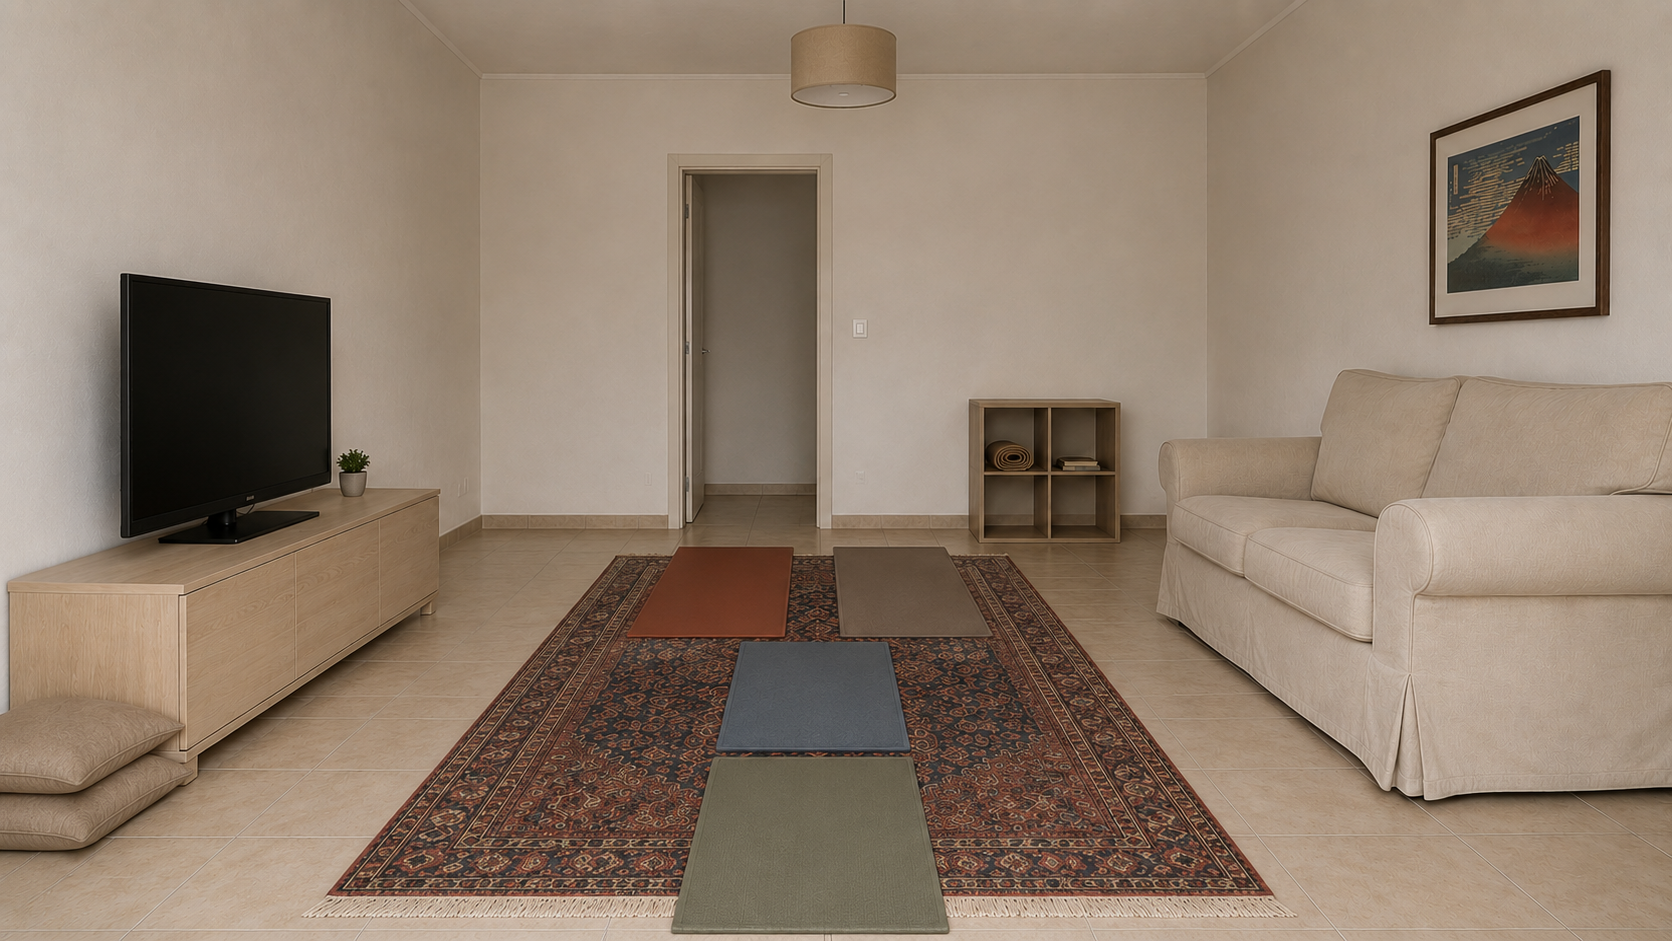
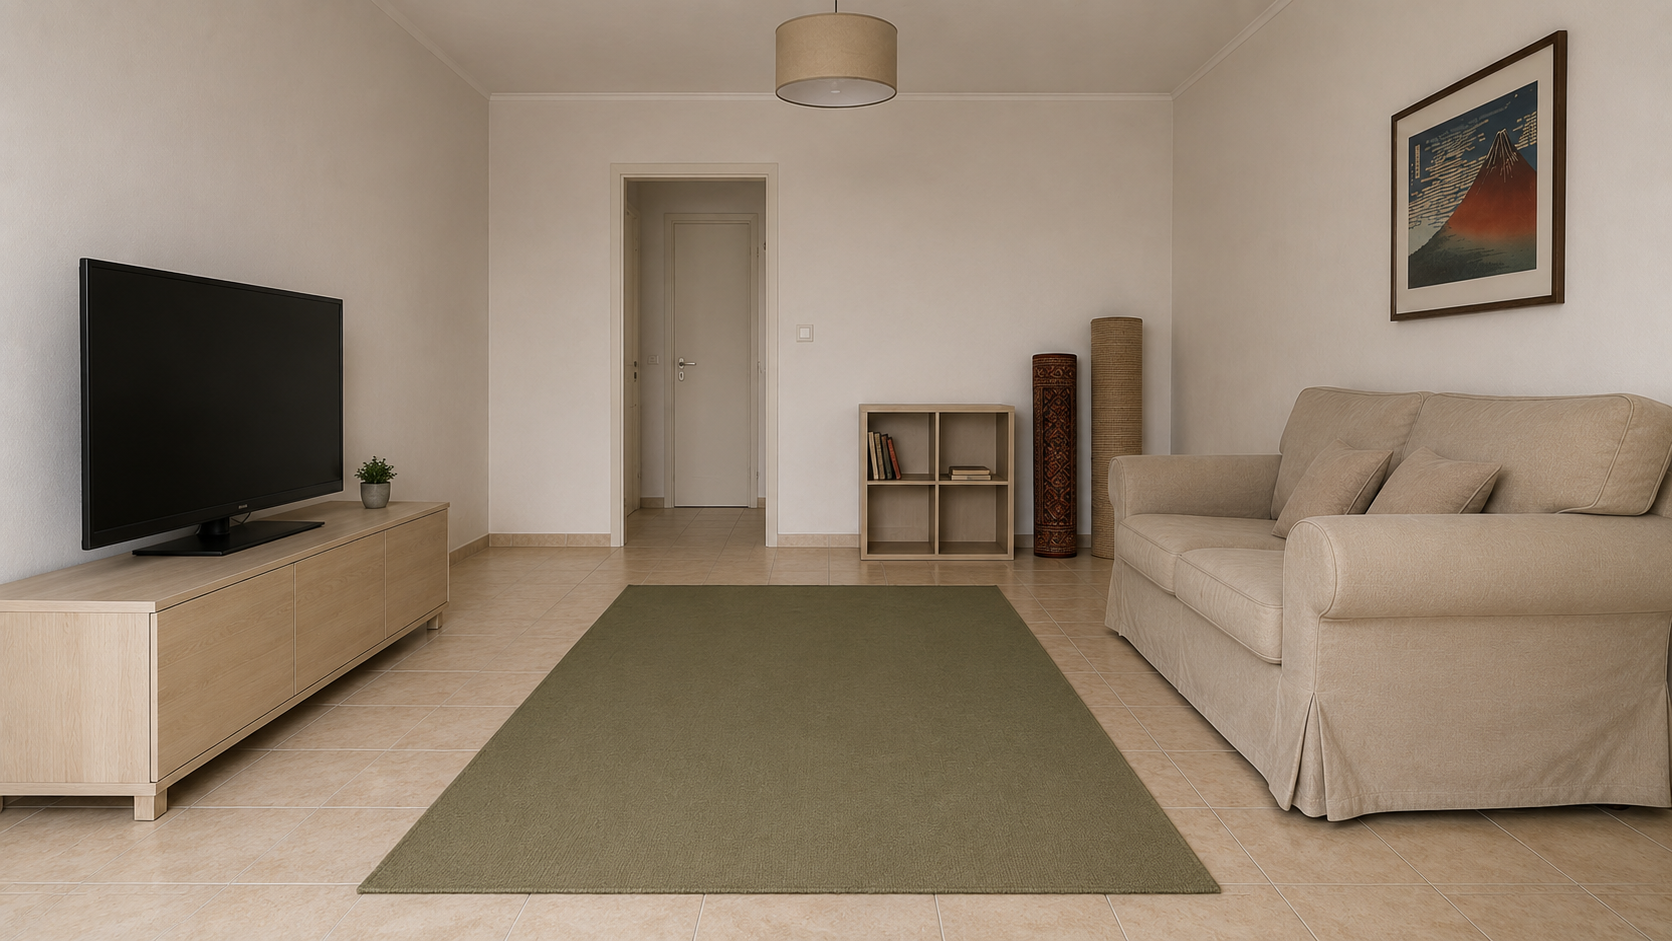
GATE B SEQ1-SC02: retract build-asset-first doctrine, reboot to method brainstorm
Six-render failed loop on the 4-subject full-body SH02-START forced a strategy
reboot. Evidence (renders on disk): a plate-baked carpet + a "Herman unrolls a
carpet" keyframe beat produced a DOUBLE CARPET that "bare floor" tokens could not
remove, and 4-figure blocking swapped positions.

Governing lesson recorded: IMAGE-REFERENCE DOMINATES TEXT — an attached plate is
the floor of truth; text adds subjects/poses + re-lights but cannot delete/override
a baked-in object. Three variance drivers logged as the next-session brainstorm
agenda: subject-count (0-1 reliable, >=3-4 collapses), full-body WS = max failure
surface, text bloat = secondary lever.

- Env E02 Cell R2 rewritten: 4-mat plate -> single plain green prayer carpet
  + 2 stored rug rolls + sofa cushions. New subuh-lit variant plate added.
- SEQ1-SC02.md: 4-mat/colour-tag/canvas doctrine purged; SH02-START re-authored;
  SH02-END + SH03 banner-flagged RE-AUTHOR PENDING.
- Prayer-surface trilemma SOLVED at the plate level (do not reopen); the open
  problem is the METHOD of placing figures on it.
- scope/context/lessons/MEMORY updated with the retraction + reboot.
- Next: brainstorm the text+image->image method + author prompt-rules-text-image-to-image.md.

diff --git a/explainer-video-2/10-gateB-keyframes/SEQ1-SC02.md b/explainer-video-2/10-gateB-keyframes/SEQ1-SC02.md
@@ -13,6 +13,8 @@ aliases: [ev2-gateB-seq1-sc02]
 
 > **🔒 TRIAD ATTACHMENT MANDATORY (Erik mandate 2026-06-23):** SETIAP frame (START & END) WAJIB melampirkan + menyebut di prompt KETIGA kategori: **(1) KARAKTER** (plat wajah/figur tiap orang dalam frame), **(2) LINGKUNGAN** (plat env E02), **(3) START/END-REFERENCE** (render anchor). Render anchor saja TIDAK cukup untuk objek yang diberi aksi (sajadah, saklar, monitor) → tanpa plat lingkungan model halusinasi permukaan/objek. Tak ada pengecualian.
 
+> **⚠️ PIVOT PERMUKAAN SHOLAT (2026-06-25, Erik) — doktrin 4-mat DIBATALKAN.** Empat sajadah colour-tagged + canvas-pixel + build-asset-first TERBANTAH: mat di bawah makmum BERDIRI rontok di render, dan mat di atas PERSISK bentrok ukuran dengan PERSISK kecil di `sc02_sh01_end.png` (anomali kontinuitas). **Permukaan baru = SATU karpet sholat hijau polos `tanpa corak`** digelar di lantai tengah; PERSISK + tikar flat-weave **digulung mepet tembok depan** (rol kanan flat-weave tan tinggi-tebal, rol kiri persisk pendek); 2 bantal di sofa. Plate `E02_ruangkeluarga_reverse_prayer.png` sudah di-regenerate + LOCKED (2026-06-25). **Beat baru SH02-START = Herman membentang sisa gulungan karpet** (floor-action = jangkar render terbukti). Token colour-tag/canvas-x-y/membujur 4-mat = HAPUS di mana pun muncul di bawah. SH02-END + SH03 = RE-AUTHOR menyusul (END anchor ke render START).
+
 > **STRUKTUR 3-SHOT (revisi 2026-06-24, Erik):** SH03 (takbir→ruku) disederhanakan jadi **berdiri bersedekap (qiyam) ditahan, START→END beda angle saja** — gerak pose multi-karakter sinkron (ruku/sujud 4 orang) risiko-tinggi i2v warp. **SH04 (sujud) DIHAPUS.** END SH03 = push-in di sumbu reverse yang sama (high-angle `prayer_high` dibatalkan). **Reblock 2026-06-24:** seluruh sholat (SH02+SH03) pindah ke plate `E02_ruangkeluarga_reverse_prayer.png`, sholat menghadap jendela/kamera (qibla=jendela), plate karakter `front`. SC02 = **3 shot / 6 keyframe**. Konsekuensi hilir: `03-scene-detail.md` hapus SH04 + shot-count film 57→56 (sync terpisah).
 
 ## Aturan keras yang dibawa
@@ -139,10 +141,10 @@ aliases: [ev2-gateB-seq1-sc02]
 ---
 
 ## SEQ1-SC02-SH02 — MS Herman gelar sajadah → saf terbentuk · segmen 5 dtk
-**Attach START:** `sc02_sh01_end.png` (acuan cahaya warm-lamplit + kontinuitas grade SAJA, kamera baru) + `E02_ruangkeluarga_reverse_prayer.png` (LINGKUNGAN plate-sholat reverse + **4 mat warna ter-bake 1-1-2**: sage-green depan=Herman · dusty-blue tengah=Andi · terracotta belakang-kiri=Lisa · warm-taupe belakang-kanan=Ratna; sofa camera-right, TV camera-left, pintu+KALLAX latar, karpet PERSISK tengah) + `H_herman_front_full.png` (Herman, imam, di mat sage-green depan, menghadap kamera) + `R_ratna_hijab_profileA_medium.png` (Ratna mukena, **PROFIL hadap camera-LEFT**, di mat warm-taupe) + `L_lisa_profileB_full.png` (Lisa mukena, **PROFIL hadap camera-RIGHT**, di mat terracotta) + `A_andi_profileB_full.png` (Andi koko+peci, **PROFIL hadap camera-RIGHT ke Ratna**, di mat dusty-blue tengah) — momen persiapan: tiap orang **di mat warnanya**, ketiga makmum **berkumpul saling berhadapan, mengobrol santai, lengan tidak bersedekap**; mat dari plat (token mat dibuang dari teks). **END:** anchor `sc02_sh02_start.png` + `E02_ruangkeluarga_reverse_prayer.png` + keempat plat front (Herman `front_full`, Ratna `hijab_front_medium`, Lisa `front_full`, Andi `front_full`), saf terbentuk menghadap kamera (i2v START→END = badan berputar ke depan menata saf). **Bersih Saat Sakral: NOL grafis; layar mati di latar.**
+**Attach START:** `E02_ruangkeluarga_reverse_prayer_subuh.png` (LINGKUNGAN+CAHAYA tunggal — plate sholat reverse versi subuh: ruang + karpet sholat hijau polos tergelar + PERSISK/flat-weave digulung mepet tembok + 2 bantal di sofa + cahaya subuh lampu-hangat) + `H_herman_front_full.png` (Herman, imam, menunduk membentang karpet) + `R_ratna_hijab_profileA_medium.png` (Ratna mukena, **PROFIL hadap camera-LEFT**) + `L_lisa_profileB_full.png` (Lisa mukena, **PROFIL hadap camera-RIGHT**) + `A_andi_profileB_full.png` (Andi koko+peci, **PROFIL hadap camera-RIGHT ke Ratna**) — beat persiapan: **Herman membentang sisa gulungan karpet sholat** (tangan di atas karpet = floor-action penjangkar render); tiga makmum **berkumpul berdiri di lantai ubin menunggu, mengobrol santai, lengan tidak bersedekap** (belum di atas karpet — karpet masih dibuka). Karpet dari plat + di-anchor aksi Herman; nol token colour-tag/canvas. **END + SH03 = RE-AUTHOR menyusul** (END anchor ke render START yang belum ada). **Bersih Saat Sakral: NOL grafis; layar mati di latar.**
 
-### SH02-START (prompt utuh — pola baru: 4 mat dari plat, tiap orang di mat warnanya, makmum mengobrol)
-> **Pola terbaru (2026-06-24):** sajadah TIDAK dibuat oleh teks — ikut dari plat `E02_ruangkeluarga_reverse_prayer.png` (4 mat polos warna-beda, 1-1-2 saf). Tiap orang dipaku ke **mat warnanya** + koordinat kanvas x/y. Compaction (dedup) + colour-anchor + canvas-pixel grammar. Mat-creation token DIBUANG.
+### SH02-START (prompt utuh — karpet sholat tunggal, Herman membentang sisa gulungan)
+> **Pendekatan 2026-06-25:** permukaan = SATU karpet hijau polos dari plat `E02_ruangkeluarga_reverse_prayer_subuh.png` (versi subuh lampu-hangat, env+cahaya tunggal). Karpet dijangkar oleh AKSI Herman membentang (tangan di atasnya), bukan colour-tag/canvas. Makmum berdiri di lantai menunggu (belum di karpet). Nol token mat-warna/koordinat. (Lolos audit MEK: A1/A2/B2 PASS; warm di `lighting` = lampu praktis bermotivasi konsisten SH01-END; MATA render-dependent PENDING.)
 ```json
 {
   "mood": "quiet pre-dawn devotion gathering, the family turning toward prayer, Roma-style observational tenderness",
@@ -152,10 +154,10 @@ aliases: [ev2-gateB-seq1-sc02]
   "location": "indoor",
   "time_of_day": "pre-dawn before sunrise, interior lamp on",
   "atmosphere": "quiet lived-in domestic calm, warm lamplit devotion before fajr",
-  "lighting_reference": "attached frame sc02_sh01_end.png, lighting and continuity reference only, same warm interior lamplit key, same dark blue pre-dawn window",
-  "environment_reference": "attached plate E02_ruangkeluarga_reverse_prayer.png, the prayer-master reverse view, the PERSISK rug with four coloured prayer mats already laid in a one-one-two formation, sage-green front, dusty-blue middle, terracotta back-left, warm-taupe back-right, EKTORP sofa, framed Red Fuji, on the camera-right wall, BESTÅ TV bench on the camera-left wall, open doorway, KALLAX shelf, on the far wall ahead, window-desk wall behind the camera, faithful room match",
+  "environment_reference": "attached reference plate E02_ruangkeluarga_reverse_prayer_subuh.png, same living room reverse view in warm pre-dawn lamplight, the EKTORP sofa beneath the framed Hokusai Red Fuji print on the camera-right wall, two cushions resting on the sofa, the BESTA TV bench, the dark off flat-screen television, on the camera-left wall, the two stored rug rolls flush against the far front wall, the camera-right tan flat-weave roll tall and thick, the camera-left oriental roll shorter and slimmer, the open doorway, the KALLAX cube shelf, on the far front wall ahead, the window-desk wall behind the camera, the central floor bare ceramic tile cleared for prayer, the everyday rugs already rolled away against the far wall, faithful room match, faithful warm pre-dawn lamplight match",
+  "prayer_surface": "one single plain solid muted-green prayer carpet, smooth even unpatterned wool surface, uniform solid green throughout, clean plain edges, about 200cm wide, a long runner whose long axis runs in depth along the imam-to-makmum line, the near end at the imam's knees in the foreground already laid flat, unrolling away from the camera deeper into the room toward where the makmum stand, the far end still a cylindrical roll pushed forward ahead of the hands, the carpet lying directly on the bare ceramic-tiled floor as the only floor covering, the bare tile visible where the roll has yet to reach, a single contiguous textile long enough to seat the whole prayer line",
   "character_identity_husband": {
-    "identity_reference": "attached plate H_herman_front_full.png, same identical face, same identity, faithful frontal match, Herman the imam kneeling on the sage-green front mat nearest the camera, facing the camera toward the window-qibla",
+    "identity_reference": "attached plate H_herman_front_full.png, same identical face, same identity, faithful facial match, Herman kneeling on one knee over the carpet, his face angled down toward the floor",
     "role": "Jakarta middle-class export-import office supervisor, modest mature man, dignified",
     "ethnicity": "modern Jakartan features, Javanese urban descent",
     "age": "man 46 years old",
@@ -169,12 +171,12 @@ aliases: [ev2-gateB-seq1-sc02]
     "footwear": "barefoot"
   },
   "character_identity_wife": {
-    "identity_reference": "attached plate R_ratna_hijab_profileA_medium.png, same identical face, same identity, head covered, faithful profile match, Ratna in profile facing camera-left, standing on the warm-taupe back-right mat turned toward the children",
+    "identity_reference": "attached plate R_ratna_hijab_profileA_medium.png, same identical face, same identity, head covered, faithful profile match, Ratna in profile facing camera-left, standing on the green prayer carpet behind the imam, turned toward the children",
     "role": "modest mature Muslim woman, makmum, dignified maternal warmth",
     "ethnicity": "modern Jakartan features, Javanese urban descent",
     "age": "woman 41 years old",
     "facial_features": "luminous healthy complexion, soft natural skin texture, gentle full cheeks",
-    "body_features": "soft maternal build, 158cm frame, full adult standing height, natural upright head-to-body proportions, tall composed stature"
+    "body_features": "soft maternal build, 158cm frame, full adult standing height, natural upright head-to-body proportions"
   },
   "character_style_wife": {
     "makeup": "bare mature skin, matte finish zero shine",
@@ -183,12 +185,12 @@ aliases: [ev2-gateB-seq1-sc02]
     "footwear": "barefoot"
   },
   "character_identity_daughter": {
-    "identity_reference": "attached plate L_lisa_profileB_full.png, same identical face, same identity, faithful profile match, Lisa in profile facing camera-right, standing on the terracotta back-left mat turned toward her mother Ratna",
+    "identity_reference": "attached plate L_lisa_profileB_full.png, same identical face, same identity, faithful profile match, Lisa in profile facing camera-right, standing on the green prayer carpet behind the imam, turned toward her mother Ratna",
     "role": "young woman university student, daughter, makmum",
     "ethnicity": "modern Jakartan features, Javanese urban descent",
     "age": "young woman 19 years old",
     "facial_features": "youthful smooth complexion, soft natural skin texture, calm eyes",
-    "body_features": "young slender build, natural 34C bustline, 162cm frame, full adult standing height, natural upright head-to-body proportions, tall composed stature"
+    "body_features": "young slender build, natural 34C bustline, 162cm frame, full adult standing height, natural upright head-to-body proportions"
   },
   "character_style_daughter": {
     "makeup": "natural youthful skin, soft matte finish zero shine",
@@ -197,7 +199,7 @@ aliases: [ev2-gateB-seq1-sc02]
     "footwear": "barefoot"
   },
   "character_identity_son": {
-    "identity_reference": "attached plate A_andi_profileB_full.png, same identical face, same identity, faithful profile match, Andi the young son in profile facing camera-right toward his mother Ratna, standing on the dusty-blue middle mat",
+    "identity_reference": "attached plate A_andi_profileB_full.png, same identical face, same identity, faithful profile match, Andi the young son in profile facing camera-right toward his mother Ratna, standing on the green prayer carpet behind the imam",
     "role": "young boy, son, makmum",
     "ethnicity": "modern Jakartan features, Javanese urban descent",
     "age": "boy 10 years old",
@@ -211,13 +213,13 @@ aliases: [ev2-gateB-seq1-sc02]
     "footwear": "barefoot"
   },
   "subject_state": "dynamic",
-  "action": "Herman kneeling on the sage-green front mat, smoothing it, facing the camera toward the window-qibla; behind him the mother and two children gathered each on their own coloured prayer mat before prayer, chatting softly, smiling, arms hanging loose and open at their sides, turned inward toward one another in warm conversation",
-  "pose": "Herman foreground on the sage-green front mat at x 960 y 920, kneeling, facing the camera; Andi standing on the dusty-blue middle mat at x 960 y 780 facing camera-right toward his mother; Lisa standing on the terracotta mat at x 800 y 640 facing camera-right toward Ratna; Ratna standing on the warm-taupe mat at x 1120 y 640 facing camera-left toward the children; the three makmum turned inward in a relaxed chat, the one-one-two formation reading in depth toward the lens, the EKTORP sofa beyond x 1500 at camera-right and the BESTÅ TV bench before x 420 at camera-left kept outside the figures band, 16:9 canvas at 1920x1080 reference",
-  "expression": "Herman calm focused on the mat, mother and two children warm with light happy smiles mid soft chat, an easy joyful family moment before prayer",
-  "framing": "MS to WS across the prayer rug, Herman on the sage-green front mat in the foreground, the three on their coloured mats behind in one-one-two depth, the open doorway on the far wall behind the family",
-  "angle": "eye-level, Herman facing the camera in the foreground, the makmum on their mats behind turned toward one another, slightly off-axis, anti-cliché",
-  "camera": "35mm prime spherical, focus on Herman at the front mat, soft background falloff",
-  "lighting": "warm interior ceiling lamp key, soft warm practical fill, faint dark blue pre-dawn spill from the window-wall behind the camera, the flat-screen television at camera-left dark and switched off, zero graphics, even matte rendering",
+  "action": "Herman kneeling on one knee at the front of the prayer line nearest the camera, both hands pushing the rolled prayer carpet away from himself, unrolling it flat across the floor away from the camera deeper into the room toward where the family will stand, the near end at his knees already laid flat, the roll moving forward ahead of his hands, his face angled down to the carpet; a little deeper in the room the mother and two children gathering onto the unrolling green carpet behind the imam, waiting before prayer, light easy smiles, arms loose at their sides",
+  "pose": "Herman at the front nearest the camera on one knee, hands on the carpet unrolling it deeper into the room away from the lens along the imam-to-makmum depth axis; the three makmum a step deeper behind him moving onto the area the carpet now covers, Andi, Lisa, Ratna gathering on the green carpet behind the imam, the EKTORP sofa at camera-right, the BESTA TV bench at camera-left, kept outside the figures band",
+  "expression": "Herman calm focused on laying the carpet, mother and two children warm with light happy smiles mid soft chat, an easy joyful family moment before prayer",
+  "framing": "MS to WS across the open floor, Herman unrolling the prayer carpet in the foreground, the three gathered behind on the bare floor, the open doorway on the far front wall behind the family",
+  "angle": "eye-level, Herman bent over the carpet in the foreground, slightly off-axis, anti-cliché",
+  "camera": "35mm prime spherical, focus on Herman at the front, the carpet under his hands, soft background falloff",
+  "lighting": "warm interior ceiling lamp key, soft warm practical fill, faint dark blue pre-dawn spill from the window-wall behind the camera, the flat-screen television at camera-left dark off, zero graphics, even matte rendering",
   "aspect_ratio": "16:9",
   "director": "Alfonso Cuarón", "directing_style": "observational domestic naturalism, unhurried intimate register",
   "lighting_director": "Emmanuel Lubezki", "lighting_style": "naturalistic available-light feel, soft motivated sources, gentle falloff",
@@ -229,6 +231,7 @@ aliases: [ev2-gateB-seq1-sc02]
 ```
 
 ### SH02-END (ANCHOR ke render START — keluarga berkumpul membentuk saf di belakang imam)
+> **⚠️ RE-AUTHOR PENDING (2026-06-25):** JSON di bawah masih versi 4-mat colour-tag. END anchor ke `sc02_sh02_start.png` yang belum di-generate ulang → ditulis ulang ke pendekatan karpet-tunggal SETELAH render SH02-START baru diterima. Jangan generate dari JSON ini.
 **Attach:** `sc02_sh02_start.png` (komposisi/cahaya) + `E02_ruangkeluarga_reverse_prayer.png` (LINGKUNGAN plate-sholat reverse) + `H_herman_front_full.png` + `R_ratna_hijab_front_medium.png` + `L_lisa_front_full.png` + `A_andi_front_full.png` (KARAKTER keempat, menghadap kamera). Beda dari START = saf terbentuk: Herman imam berdiri di depan (terdekat kamera) menghadap kamera, tiga makmum (Andi · Ratna · Lisa) satu baris bahu-membahu di belakangnya (lebih dalam di ruang), semua menghadap kamera. **Lisa mukena, Andi koko+sarung+peci anak.**
 ```json
 {
@@ -320,6 +323,7 @@ aliases: [ev2-gateB-seq1-sc02]
 ---
 
 ## SEQ1-SC02-SH03 — WS qiyam bersedekap (ditahan, START→END beda angle) · segmen 5 dtk
+> **⚠️ RE-AUTHOR PENDING (2026-06-25):** kedua JSON SH03 di bawah masih versi 4-mat colour-tag + plate `_reverse_prayer` lama. Permukaan kini = karpet sholat hijau polos tunggal; SH03 ditulis ulang SETELAH SH02 pair (START+END) terkunci. Jangan generate dari JSON ini.
 **Penyederhanaan (Erik 2026-06-24):** pose **berdiri bersedekap (qiyam, tangan kanan di atas kiri di dada/perut) DITAHAN identik** dari START ke END; yang berubah **HANYA kamera** — START eye-level menghadap kamera, END **push-in sedikit lebih rapat di sumbu reverse yang sama** (high-angle dibatalkan: plate `prayer_high` = sumbu lama, tak cocok reverse). Tidak ada gerak pose multi-karakter (ruku/sujud dibuang). Gerak i2v = push-in halus atas subjek statis, risiko warp minimal.
 
 **Attach START:** `sc02_sh02_end.png` (acuan komposisi saf + cahaya) + `E02_ruangkeluarga_reverse_prayer.png` (LINGKUNGAN plate-sholat reverse) + keempat plat (Herman `front_full`, Ratna `hijab_front_medium`, Lisa `front_full`, Andi `front_full`). **Attach END:** `sc02_sh03_start.png` (anchor identitas+pose, pose ditahan) + `E02_ruangkeluarga_reverse_prayer.png` (LINGKUNGAN, sumbu sama, framing sedikit lebih rapat) + keempat plat.
@@ -506,10 +510,10 @@ aliases: [ev2-gateB-seq1-sc02]
 |---|---|---|---|
 | SH01 WS desktop (beat iklan) | START | `scene-images/sc02/sc02_sh01_start.png` | ✅ ACCEPTED (2026-06-24) |
 | | END | `scene-images/sc02/sc02_sh01_end.png` | ✅ ACCEPTED (2026-06-24, refleks menengok ruang baru-menyala; verifikasi adversarial digeser ke shot berikutnya per Erik) |
-| SH02 MS sajadah→saf | START | `scene-images/sc02/sc02_sh02_start.png` | ✅ ACCEPTED (2026-06-24, POLA BARU: mat-dari-plat + colour-anchor + canvas x/y + compaction; one-shot, Erik "jenius") |
-| | END | `scene-images/sc02/sc02_sh02_end.png` | ⏳ |
-| SH03 WS qiyam (ditahan, beda angle) | START | `scene-images/sc02/sc02_sh03_start.png` | ⏳ |
-| | END | `scene-images/sc02/sc02_sh03_end.png` | ⏳ |
+| SH02 MS Herman membentang karpet | START | `scene-images/sc02/sc02_sh02_start.png` | ⏳ RE-AUTHORED (2026-06-25, karpet-tunggal + Herman-membentang; doktrin 4-mat dibatalkan; prompt siap, tunggu render baru) |
+| | END | `scene-images/sc02/sc02_sh02_end.png` | ⏳ RE-AUTHOR PENDING (anchor render SH02-START baru) |
+| SH03 WS qiyam (ditahan, beda angle) | START | `scene-images/sc02/sc02_sh03_start.png` | ⏳ RE-AUTHOR PENDING (karpet-tunggal) |
+| | END | `scene-images/sc02/sc02_sh03_end.png` | ⏳ RE-AUTHOR PENDING |
 
 Storage: `scene-images/sc02/`. Generate urut SH01-START → SH01-END → SH02-START → SH02-END → SH03-START → SH03-END; review tiap render (wajah/ruang/saf vs plat) sebelum lanjut; rename yang accepted → `sc02_sh<NN>_<start|end>.png`; nol `Content*.png` leftover.
 

diff --git a/scope.md b/scope.md
@@ -6,7 +6,18 @@ created: 2026-06-08
 updated: 2026-06-18
 ---
 
-# Scope — AKTIF (2026-06-24 · GATE B keyframe SEQ1-SC02 — POLA PROMPT BARU divalidasi, SH02-START accepted)
+# Scope — AKTIF (2026-06-25 · GATE B SEQ1-SC02 — STRATEGY REBOOT: brainstorm metode text+image→image)
+
+## STATUS TERBARU (2026-06-25 · sesi reboot metode)
+- **AKTIF:** bukan lagi tambal-token SH02 — **brainstorm METODE prompting+produksi text+image→image** di sesi BARU, lalu tulis doc baru `prompt-rules-text-image-to-image.md` (vault root) yang MENDUKUNG `prompt-rules-image-generation.md`. Paket: `handoff/HANDOFF-2026-06-25-EV2-PROMPTING-METHOD-BRAINSTORM.md` + `.txt`.
+- **DOKTRIN "POLA BARU build-asset-first" (2026-06-24) DIRETRAKSI** — terbantah sesi ini. Bukti: karpet ter-bake di plate `_subuh` + aksi "Herman membentang" → DOUBLE CARPET (`26629cfc-…png`, `Content 1672x941 (2).png`); posisi 4 figur tertukar. **Pelajaran inti: image-reference MENDOMINASI teks — objek yang ter-bake di plate TAK bisa di-token-out.**
+- **Tiga hipotesis Erik (agenda brainstorm, tervalidasi vs bukti):** (1) teks berlebih meredundansi image-ref (parsial); (2) >2 subjek → akurasi anjlok (KUAT); (3) full-body WS rapuh → pakai medium/close, full-body hanya saat aman + untuk scene-developing.
+- **TERKUNCI (jangan dibuka ulang):** trilemma permukaan-sholat SOLVED di level PLATE — `E02_ruangkeluarga_reverse_prayer.png` (satu karpet hijau polos + 2 rol mepet tembok + bantal di sofa) + `E02_ruangkeluarga_reverse_prayer_subuh.png` (versi subuh). SH01 pair accepted+committed. SH02/SH03 = OPEN (re-derive di bawah metode baru).
+- **OUT OF SCOPE:** generate gambar (tugas user); buka ulang trilemma permukaan; tambal-token multi-subjek full-body turn-by-turn; commit hanya bila user minta.
+
+---
+
+# Scope — Riwayat: AKTIF (2026-06-24 · GATE B keyframe SEQ1-SC02 — POLA PROMPT BARU [DIRETRAKSI 2026-06-25], SH02-START accepted)
 
 ## STATUS TERBARU (2026-06-24 · sesi pola-baru)
 - **AKTIF:** GATE B keyframe SEQ1-SC02. **3/6 terkunci** (SH01 pair + SH02-START). **NEXT = SH02-END + SH03 dengan POLA BARU**, lalu review render user. YA NEVER generate.

diff --git a/context.md b/context.md
@@ -8,7 +8,15 @@ updated: 2026-06-10
 
 # Context — Sesi Aktif
 
-## State AKHIR Sesi (2026-06-24 · GATE B SEQ1-SC02 — POLA PROMPT BARU divalidasi end-to-end, SH02-START accepted) — TERBARU
+## State AKHIR Sesi (2026-06-25 · GATE B SEQ1-SC02 — STRATEGY REBOOT, brainstorm metode text+image→image) — TERBARU
+**Fokus:** sesi ini gagal mengonvergensi SH02-START (4-subjek full-body) lewat ≥6 render; Erik menghentikan tambal-token dan memutuskan **reboot strategi**: brainstorm metode prompting+produksi text+image→image di sesi BARU + tulis doc baru `prompt-rules-text-image-to-image.md` (mendukung, bukan mengganti, `prompt-rules-image-generation.md`).
+**DOKTRIN BUILD-ASSET-FIRST 2026-06-24 DIRETRAKSI** (terbantah): plate `_subuh` membawa karpet ter-bake; aksi "Herman membentang karpet" menambah karpet KEDUA → **DOUBLE CARPET** (`scene-images/sc02/26629cfc-…png`, `Content 1672x941 (2).png`); posisi Andi/Lisa vs Ratna tertukar. **Pelajaran kunci: image-reference MENDOMINASI teks — tak bisa men-token-out objek yang ter-bake di plate; plate = lantai kebenaran, teks hanya menambah/pose di dalamnya.**
+**Korpus kegagalan (Priority 1, render di disk):** 4-mat kecil di bawah makmum berdiri rontok; double-carpet (reference dominasi); blocking 4-figur tertukar; figur berdiri menekan objek lantai. **Yang ANDAL:** plate nol-subjek (selalu benar), SH01 satu-subjek (sekali jadi), relight-via-composition-anchor.
+**Tiga hipotesis Erik (agenda brainstorm):** (1) teks berlebih meredundansi image-ref (parsial); (2) >2 subjek → akurasi anjlok (KUAT); (3) full-body WS rapuh → medium/close default, full-body hanya saat aman + scene-developing.
+**State git:** dirty, nothing committed. `M` E02-ruangkeluarga.md (Cell R2 → single-carpet), SEQ1-SC02.md (doktrin 4-mat dipurge, SH02-START re-author, SH02-END/SH03 banner RE-AUTHOR PENDING), `E02_ruangkeluarga_reverse_prayer.png` (single green carpet). `??` `_reverse_prayer_subuh.png` (accepted, locked), Content*.png + 26629cfc (rejected). `D` `sc02_sh02_start.png` (old 4-mat dihapus). SH01 pair locked+committed.
+**TERKUNCI:** trilemma SOLVED di level plate (single green carpet); SH02/SH03 OPEN (re-derive di bawah metode baru). **NEXT (sesi baru):** brainstorm metode → tulis `prompt-rules-text-image-to-image.md` → validasi di SH02-START. Handoff: `handoff/HANDOFF-2026-06-25-EV2-PROMPTING-METHOD-BRAINSTORM.md` + `.txt`.
+
+## State AKHIR Sesi (2026-06-24 · GATE B SEQ1-SC02 — POLA PROMPT BARU [DIRETRAKSI 2026-06-25], SH02-START accepted)
 **Fokus:** lanjut GATE B SEQ1-SC02; sesi ini melahirkan + memvalidasi **POLA PROMPTING BARU** (SH02-START accepted ONE-SHOT, Erik "jenius"). **3/6 keyframe terkunci** (`scene-images/sc02/sc02_sh0{1_start,1_end,2_start}.png`).
 **POLA BARU (WAJIB, semua di `prompt-rules` changelog 2026-06-24):** (1) **build-asset-first** — objek/arrangement persisten yang tak bisa di-teks (sajadah) di-BAKE ke set-plate turunan master, dikunci, lalu keyframe mereferensi (bukan menciptakan via teks); (2) **colour-tagging objek** — warna muted distinct = anchor penempatan + kepemilikan; (3) **canvas-pixel grammar DUA sumbu** — center-x + center-y px di 1920×1080 (y-depth: dekat kamera = y besar); (4) **long-axis membujur/melintang** eksplisit + dimensi cm; (5) **compaction-by-dedup** — satu fakta satu field, telegraphic, pertahankan token per-figur, front-load subjek + tail crew, TANPA simbol pemrograman (`->`/`=>` ditolak; GPT-Image autoregresif caption-trained).
 **Aset:** `E02_ruangkeluarga_reverse_prayer.png` = plat sholat 4-mat warna 1-1-2 (Cell R2 di env-sheet; ownership sage-green=Herman/dusty-blue=Andi/terracotta=Lisa/warm-taupe=Ratna); `E02_ruangkeluarga_reverse.png` = base no-mats (dipulihkan dari `115609e` setelah keliru ditimpa — pelajaran: nama-file distinct per varian, jangan cp-overwrite aset ter-commit). SH02-START doc `SEQ1-SC02.md` ditulis ulang ke pola baru + manifest ✅.

diff --git a/explainer-video-2/09-environment-sheet/E02-ruangkeluarga.md b/explainer-video-2/09-environment-sheet/E02-ruangkeluarga.md
@@ -286,10 +286,11 @@ Serves SEQ1-SC02 prayer (SH02 + SH03) — a NEW camera axis, the reverse of the 
 
 ---
 
-### Cell R2 — REVERSE prayer plate WITH four colour-tagged mats → `E02_ruangkeluarga_reverse_prayer.png` · ✅ LOCKED (2026-06-24)
-Derived from **Cell R** (same room, same reverse camera, upload `E02_ruangkeluarga_master.png` as reference) with four plain colour-tagged prayer mats baked onto the PERSISK rug in a 1-1-2 saf, placed by canvas coordinates + membujur (long-axis-toward-camera) orientation. Serves SEQ1-SC02 prayer (SH02 + SH03); keyframes reference the mats by colour instead of conjuring them in text. **Identical to Cell R except: (a) add the `prayer_mats` object below into `subject_anchor.supporting_objects`; (b) `primary_subject` & `shot.composition` mention "four plain prayer mats, each a different muted colour, 1-1-2 formation receding in depth"; (c) filename `…_reverse_prayer.png`.** Mat ownership for keyframe placement: **sage-green front = Herman (imam) · dusty-blue middle = Andi · terracotta back-left = Lisa · warm-taupe back-right = Ratna.** (Validated 2026-06-24, render (3), Erik — count + 1-1-2 depth + membujur all correct; basis for `prompt-rules` changelog: colour-tagging, canvas y-depth, membujur, build-asset-first.)
+### Cell R2 — REVERSE prayer plate, single plain prayer carpet + two stored rug rolls → `E02_ruangkeluarga_reverse_prayer.png` · ✅ LOCKED (2026-06-25, REPLACES the disproven 4-mat plate)
+**Pivot 2026-06-25 (Erik):** the four colour-tagged mats DISPROVEN — standing-makmum mats dropped in render, and a mat baked onto the PERSISK rug mismatched the small PERSISK size in `sc02_sh01_end.png` (continuity anomaly). **New surface = ONE single plain solid muted-green prayer carpet** laid flat over the central tiled floor (no pattern, `tanpa corak`), distinct from the PERSISK. The PERSISK + the flat-weave floor mat are **rolled up and stored against the far front wall** (the camera-right roll = the wider tan flat-weave mat, a tall thick cylinder; the camera-left roll = the narrower PERSISK, shorter/slimmer) — they are out of use, so the everyday rugs are accounted for without crowding the prayer floor. The two EKTORP cushions sit on the sofa seat. Derived from **Cell R** (same reverse camera, upload `E02_ruangkeluarga_master.png`). Serves SEQ1-SC02 prayer (SH02 + SH03). Render-reliability rationale: one large contiguous floor object renders dependably (proven by the PERSISK behaviour); the carpet under standing makmum is still verified per keyframe render. **Identical to Cell R except: (a) replace the `rug` object with the `prayer_carpet` + `stored_rug_rolls` objects below; (b) cushions moved onto the sofa; (c) `primary_subject` & `shot.composition` name the green carpet + the two wall rolls; (d) filename `…_reverse_prayer.png`.** (Validated 2026-06-25, render `Content 1672x941 (1)` → renamed, Erik — green carpet + rolls + sofa cushions all correct.)
 ```json
-"prayer_mats": "four separate plain single-person prayer mats on the PERSISK rug, each a different muted solid colour, placed by camera-frame canvas coordinates on the 16:9 frame at 1920x1080 reference, a family prayer formation receding in depth, EVERY mat a tall narrow rectangle oriented lengthwise toward the camera, its long axis running front-to-back from the foreground toward the doorway and its short axis left-to-right, each mat clearly longer front-to-back than it is wide side-to-side, about 70cm wide by 115cm long with the 115cm length pointing toward the camera, all four mats oriented the same lengthwise way, the imam's muted sage-green mat centred at x 960 y 920 in the near foreground lowest in frame, the muted dusty-blue lone middle-row mat centred at x 960 y 780 in its own row, the back row two mats highest and furthest a muted terracotta mat centred at x 800 y 640 toward camera-left and a muted warm-taupe mat centred at x 1120 y 640 toward camera-right, the blue middle mat clearly between the green front mat and the back pair, all four mats within the central horizontal band from x 680 to x 1240 of 1920 with at least 430px to each side edge, the EKTORP sofa beyond x 1500 at camera-right and the BESTÅ TV bench before x 420 at camera-left both kept outside the mats band, each mat a plain solid-colour rectangle with a smooth unpatterned surface, spaced apart with rug showing between them"
+"prayer_carpet": "one single plain solid muted-green prayer carpet, smooth even unpatterned wool surface, uniform solid green throughout, clean plain edges, about 200cm wide, laid flat across the central tiled floor, a single contiguous textile",
+"stored_rug_rolls": "two everyday floor rugs rolled into tight upright cylinders, stood flush against the far front wall ahead beside the KALLAX shelf, the camera-right roll a wide tan flat-weave striped-pattern mat rolled into a tall thick cylinder standing higher, the camera-left roll a narrower PERSISK oriental-pattern rug rolled into a shorter slimmer cylinder, both set aside out of use"
 ```
 
 ---
@@ -302,7 +303,7 @@ Derived from **Cell R** (same room, same reverse camera, upload `E02_ruangkeluar
 | F | floor-seating | `E02_ruangkeluarga_floorseat.png` | ✅ LOCKED v2 (2026-06-23, tight-MS seated-height) |
 | S | screen / desktop insert | `E02_ruangkeluarga_screen.png` | ✅ LOCKED v2 (2026-06-23, keyboard+mouse verified) |
 | R | REVERSE establishing (prayer master, no mats) | `E02_ruangkeluarga_reverse.png` | ✅ LOCKED (2026-06-24, kamera membelakangi jendela → sholat menghadap kamera; sofa→camera-right, TV→camera-left, pintu+KALLAX latar, karpet PERSISK tengah — geometri terbalik terverifikasi) |
-| R2 | REVERSE prayer plate + 4 colour-tagged mats | `E02_ruangkeluarga_reverse_prayer.png` | ✅ LOCKED (2026-06-24, 4 mat polos warna-beda, 1-1-2 saf via canvas x/y, membujur; sage-green=Herman/dusty-blue=Andi/terracotta=Lisa/warm-taupe=Ratna) |
+| R2 | REVERSE prayer plate, single plain green carpet + 2 stored rug rolls | `E02_ruangkeluarga_reverse_prayer.png` | ✅ LOCKED (2026-06-25, REPLACES disproven 4-mat plate: 1 karpet sholat hijau polos `tanpa corak` digelar tengah; PERSISK + tikar flat-weave digulung mepet tembok depan (rol kanan flat-weave tan tinggi-tebal, rol kiri persisk pendek); 2 bantal di sofa) |
 
 Storage: `environment-images/E02_ruangkeluarga/` (+ `_rejected/`). Naming: `E02_ruangkeluarga_<angle>.png`.
 Generate M first (no reference-image). Then P / F / S via the `shot`-only-rewrite method: upload `E02_ruangkeluarga_master.png` as reference + paste §1 verbatim + the cell's `shot` block. Verify each prop against the master image before locking.

diff --git a/lessons.md b/lessons.md
@@ -340,6 +340,10 @@ updated: 2026-06-18
 ## [2026-06-23] 🔒 TRIAD ATTACHMENT MANDATORY — karakter + lingkungan + start/end-ref tiap frame (Erik mandate) — MANDAT
 - **Aturan:** SETIAP frame (START & END) WAJIB attach + sebut di prompt: (1) KARAKTER (plat tiap orang di frame), (2) LINGKUNGAN (plat env), (3) START/END-REFERENCE (plat arah / render anchor). **Meski render START/END sudah menampilkan lingkungan, plat lingkungan TETAP wajib** — anchor render saja tak cukup untuk objek yang diberi aksi (bukti: SH03-END "taruh HP di nakas" tanpa plat nakas → halusinasi permukaan). Tak ada pengecualian, termasuk END yang anchor ke render.
 - **Mengapa:** Erik mandate 2026-06-23 (SH03-END); kanonik di `prompt-rules` + CLAUDE.md + memory + banner `SEQ1-SC01.md`. Generalisasi "subjek wajib direferensikan".
+
+## [2026-06-25] ⛔ RETRAKSI doktrin build-asset-first + image-reference MENDOMINASI teks — NEGATIF (reboot strategi)
+- **Pelajaran:** doktrin "POLA BARU build-asset-first" (2026-06-24) DIRETRAKSI di level keyframe. Bake objek ke plate berhasil untuk plate NOL-subjek, tapi GAGAL begitu 4 figur berdiri + aksi ditaruh di atasnya. Tiga kegagalan, semua render Priority 1 (`scene-images/sc02/26629cfc-…png`, `Content 1672x941 (2).png`): (a) **DOUBLE CARPET** — plate `_subuh` sudah punya karpet ter-bake tergelar; beat "Herman membentang karpet" menambah karpet KEDUA; token "bare floor" TIDAK menghapus karpet ter-bake. (b) **blocking 4-subjek runtuh** (Andi/Lisa tertukar vs Ratna). (c) figur berdiri tetap menekan objek lantai (rontok mat 4-warna lama). **Pelajaran yang memerintah: IMAGE-REFERENCE MENDOMINASI TEKS** — plate = lantai kebenaran; teks bisa MENAMBAH subjek/pose + relight, tapi tak bisa MENGHAPUS/menimpa objek yang ter-bake di plate. Korolari: JANGAN lampirkan plate yang sudah berisi objek yang aksi keyframe-nya dimaksudkan "menciptakan" objek itu (beat membentang melawan plate karpet-tergelar → double).
+- **Mengapa:** terbantah end-to-end sesi 2026-06-25 (≥6 render SH02-START gagal konvergen). Tiga pendorong varians (agenda brainstorm sesi baru): (1) teks berlebih = lever sekunder, bukan penyebab; (2) **subject-count = pendorong varians dominan** (0–1 subjek andal sekali-jadi, ≥3–4 runtuh); (3) **full-body WS N-orang = permukaan-gagal maksimal** → default medium/close, full-body hanya saat aman + scene-developing. Keputusan: stop tambal-token multi-subjek full-body; brainstorm metode + tulis doc baru `prompt-rules-text-image-to-image.md` (mendukung `prompt-rules-image-generation.md`). Trilemma permukaan SOLVED di level plate (single green carpet, accepted) — jangan dibuka ulang. Paket `handoff/HANDOFF-2026-06-25-EV2-PROMPTING-METHOD-BRAINSTORM.md` + `.txt`. Kanonik penuh akan masuk `prompt-rules-text-image-to-image.md` saat sesi baru. See [[semesta-image-prompt-craft]].
 - **🔴 ENFORCEMENT (meta-lesson, Erik marah 2026-06-23 — "nyatat terus tapi tolol terus"):** mencatat aturan ≠ menerapkannya. Bukti kegagalan: TRIAD ditulis, lalu DILANGGAR di frame berikutnya (SH03 menyebut `character_identity_wife` tapi plat Ratna dibuang). **WAJIB pre-emit cross-check tiap frame SEBELUM nyatakan siap:** untuk SETIAP nama orang/objek/lingkungan yang muncul di prompt JSON → pastikan ada plat ter-attach yang bersesuaian (grep `identity_reference`/`environment_reference` vs daftar attach). Plat orang berbaring = full/medium (bukan closeup). Kalau ada nama tanpa plat → BELUM siap. Jalankan audit ini sendiri, jangan tunggu user yang menemukan.
 
 ## [2026-06-23] PILOT SEQ1-SC01 — teknik prompting tervalidasi (SH01+SH02 pair complete) — POSITIF

diff --git a/MEMORY.md b/MEMORY.md
@@ -5,6 +5,8 @@ Erik communicates in informal Bahasa Indonesia; all vault documents are written 
 
 Current state
 
+TERBARU (2026-06-25, STRATEGY REBOOT) — GATE B keyframe production for explainer-video-2/. Locked: SEQ1-SC01 (8/8) + SEQ1-SC02 SH01 pair (committed). SC02 SH02/SH03 BLOCKED after a 6-render failed loop on a 4-subject full-body shot. **The 2026-06-24 "build-asset-first / POLA BARU" doctrine is RETRACTED** — it held for zero-subject plates but failed once standing figures + an action were placed on a baked-object plate. **Governing lesson now: IMAGE-REFERENCE DOMINATES TEXT** — an attached plate is the floor of truth; text can ADD subjects/poses + re-light but cannot DELETE/override what is baked into the plate (proof: DOUBLE-CARPET render `26629cfc`, where a "Herman unrolls a carpet" beat drew a 2nd carpet over the plate's baked one; "bare floor" tokens did not remove it). Three structural variance drivers (next-session brainstorm agenda): (1) text bloat = secondary lever; (2) subject-count is dominant — 0–1 subject reliable one-shot, ≥3–4 collapses (blocking swaps, floor objects drop); (3) full-body WS of N people = max failure surface → default medium/close, full-body only when safe + for scene-developing. DECISION (Erik): stop token-firefighting; brainstorm the text+image→image method in a NEW session + author vault-root doc `prompt-rules-text-image-to-image.md` that SUPPORTS `prompt-rules-image-generation.md`. Prayer-surface trilemma SOLVED at PLATE level (single plain green prayer carpet plate `E02_ruangkeluarga_reverse_prayer.png` + subuh variant, accepted) — do NOT reopen; the open problem is the METHOD of placing figures on it. Package: handoff/HANDOFF-2026-06-25-EV2-PROMPTING-METHOD-BRAINSTORM.md + .txt. Detail in lessons.md (2026-06-25 retraction entry) + auto-memory semesta-image-prompt-craft.md.
+
 TERBARU (2026-06-21, end of GATE B / GATE 0-ENV session) — Active work = the 5-minute explainer video "Satu Keluarga, Satu Hari Penuh" in explainer-video-2/, cast of 4 (Herman 50, Ratna 45, Lisa 20, Andi 10). GATE A (scene detail) COMPLETE (6 seq / 19 scene / 57 shot / ≈312s). **GATE 0 (character plates) CLOSED — 53 plates approved**: Herman 9, Ratna 12, Lisa 9, Andi 9, figurans 14. **GATE B (per-shot keyframe prompts) standard LOCKED** (00-WORKLOG GATE B entry): WARM color_grade token = "Roger Deakins palette, lifted blacks medium gray, neutral shadows, clean whites, Kodak 2383 emulation, slightly warmer midtones" (warmth from color_grade ONLY, garments desaturated); video crew = Cuarón / Lubezki / Caballero; per-shot start/end pairing (end-N = start-N+1); new field character_identity.identity_reference binds the plate file to the ChatGPT attachment; validated on SEQ1-SC01-SH03 over 6 iterations (HP rear-to-camera, off-axis anti-AI-cliché angle, expression as a sub-object for a beat like just-woke, subject-on-the-bed spatial fix). **ADDENDUM A1 (canonical 00-WORKLOG) — ALL graphics removed from AI generation**: app UI / ad cards / charts / super / motion graphics done in After Effects by a human animator; Lapis 5 (on_screen_graphic/graphic_proximity/ui_overlay) DROPPED from every keyframe prompt; devices appear but screens render off/neutral, comp-aware; cross-linked in prompt-rules + 05 + 03 + lessons + auto-memory semesta-no-ai-graphics-addendum.md. **GATE 0-ENV (environment reference plates) IN PROGRESS** — method `09-environment-sheet/00-README-ENV.md` + `environment-images/` created; 14 unique environments E01–E14 (6 home rooms share one architecture anchor + 8 outside); per-env scoped-angle (not 360), empty-room, neutral grade, ADDENDUM A1; THREE mandatory anchors per env prompt: owner social class in `scene` + INTERNATIONAL brand register (IKEA etc. as "<brand>-style register" not logos; model localizes via Jakarta tokens) + INTERNATIONAL interior-designer pair (production_designer Eugenio Caballero + interior_designer Ilse Crawford) + NAMED public-domain artwork for cross-angle consistency (home default: Hokusai "The Great Wave off Kanagawa" + "Fine Wind Clear Morning Red Fuji"). E01 Kamar Herman master v3.1 done (compliant). NEXT (continued in handoff/INITIAL-PROMPT-2026-06-21-ENV.txt): finish E01 angles (bed3q/wallart/nightstand) → E02–E14 → return to GATE B keyframes. **Hard behavioural lessons this session (do NOT repeat — full detail lessons.md §Koreksi GATE 0-ENV): (1) env prompts MUST be authored FROM prompt-rules + the approved character-plate formula (H-herman.md Cell 1), never from memory — last session used negation + invented framing/angle/camera/lighting tokens + omitted subject_anchor; (2) env = object/space scene → use subject_anchor, library tokens, positive-only, valid time_of_day; (3) keep env empty+neutral but LIVED-IN family register, NOT clinical/catalogue/architectural (that reads as showroom/hotel); (4) multi-angle env consistency uses the CHARACTER method = reference-image upload of the master + explicit distinct camera spec (NOT text-only, which mirrors the room; NOT "match the plate" without a new-angle spec, which clones it); (5) do NOT generalize "t2i can't do consistent multi-angle" — 53 character plates prove it can; defeatism/goal-minimal violates brave.** The S0–S17 investor-deck illustration record below is COMPLETE and ARCHIVED — still valid for that deck, superseded as the active task.
 
 Illustration pipeline: 14 of 17 scenes approved (S0–S12 + S12b — updated 2026-06-10 Sesi 12). Deck grew to 17 scenes (S12b = ADDED: elder pausing for worship, sharia opt-in / values-aware feature; companion to S12). S15 (post-production composite) and S16 (typography only) are SKIPPED. Deck illustrations COMPLETE: 19/19 (S0–S14 + S12b + S14b + S17 + S17b). S17b = female mirror closer of S17 (M/F bookend). Lesson: a companion scene's super must REINFORCE, not duplicate, its pair's super (S17 = structure "One Ecosystem./One Set of Rules for Everyone"; S17b = human payoff "A Place for Everyone./Belonging by Design"). S15/S16 removed from deck (video-only beats, video docs untouched). Claude Design handoff DONE (2026-06-10): handoff/HANDOFF-CLAUDE-DESIGN-2026-06-10.md (upload via "Upload a doc") + handoff/INITIAL-PROMPT-CLAUDE-DESIGN-2026-06-10.txt (paste in chat). Adapted to the Claude Design UI: it cannot read a filesystem, so the handoff is self-contained and uses a dual-key image manifest (filename + content description) for the 19 attachments — zero filepath references. Special tasks baked in: S6 Rp 340.000 card composite, optional ecosystem montage from the 7 character images, S16 as native typography, financials only from the operator's uploaded copy doc. Deck illustration project COMPLETE (19/19) + handoff ready. S14b approved (17/18): added hijabi-ibu culinary-for-business scene filling the middle-aged-hijabi representation gap (grep confirmed zero hijab before); new rule — a device screen facing the subject (back to camera) must NOT embed UI; show its content as a FLOATING screen-preview card. Deck grew to 18 scenes (ADDED S12b + S14b). After S17 → 18/18 → Claude Design handoff. S14 approved (16/17): corporate two-person wall-display interaction, finger on large screen clean, negations removed, garment specified, off-axis added. S13 approved: turn-back portrait + active pose + flipped subject-right/graphic-left, because slight off-center alone does NOT break presenter monotony — vary angle+pose+side together. After all approved → Claude Design handoff (PNGs + Section 1–4 of 08). Key new rules locked this session: (1) unspecified visible garment + ethnic token → model auto-fills batik; specify every garment affirmatively, correct by specification not negation (validated S12 A/B). (2) Two graphics in one frame is valid — diegetic ID push-notification banner + English investor frosted card — if you differ the visual TYPE and separate positions (validated S12b); never two twin frosted cards. (3) Abstract/devotional meaning must not rest 100% on text — add a non-text visual cue. S12b naskah added to 06-storyline.md (Beat 2b). S10 lesson: large screen + finger-on-screen is safe from hand-melt (inverse of small-phone S6); Teknik 3 embedded dashboard + Teknik 2 floating card both legible on one large monitor; "two people reading the same screen" = strong B2B interaction. S11 lesson: presenter full-body validated in a populated open operations floor — "rebuild solo workspace → populated professional floor" (S5/S7) pattern holds; every presenter scene must use a different populated room. S12 pre-patched: dead-center→off-axis low-angle OTS, tablet face-grid softened to avoid melt. DECK TONE STANDARD (locked): every color_grade = `cool midtones desaturated, cool-dominant zero amber push`; all ungenerated prompts already rolled to it. Super/graphic text must be UNIQUE per scene (no duplicates). Always verify a scene's APPROVED marker against the actual PNG in `rough-presentation-image/` — text markers can go stale.